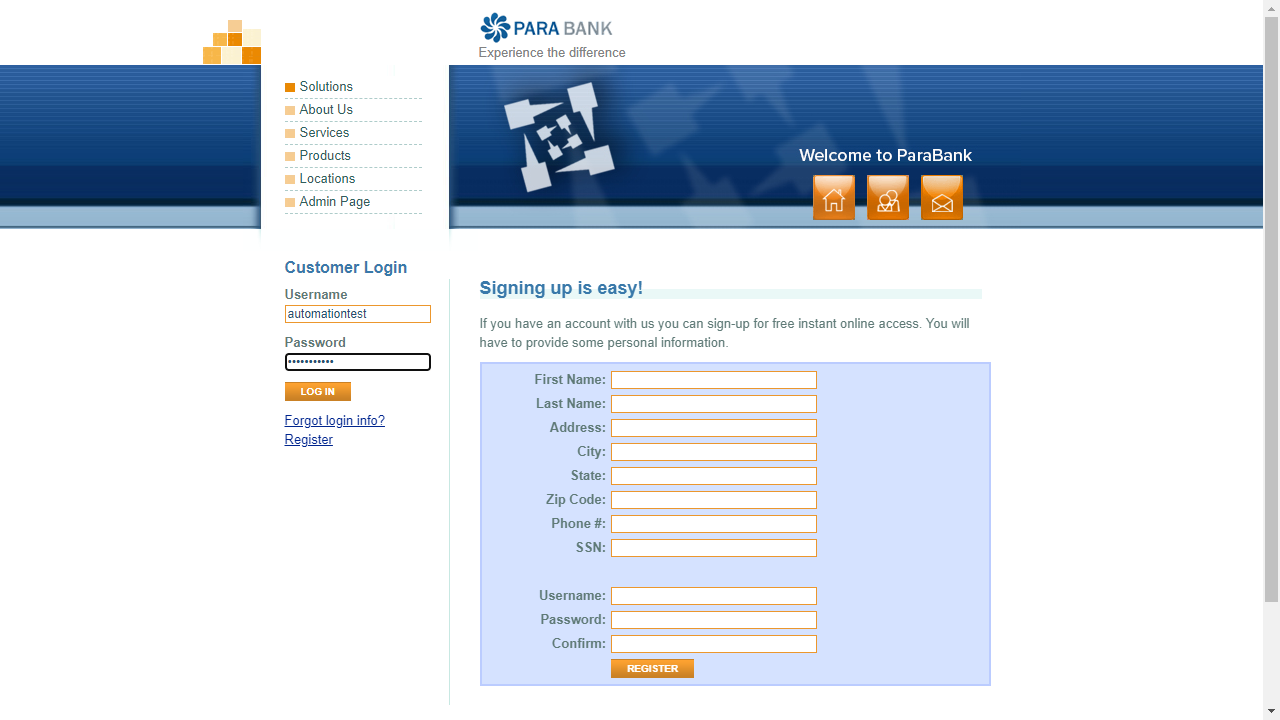
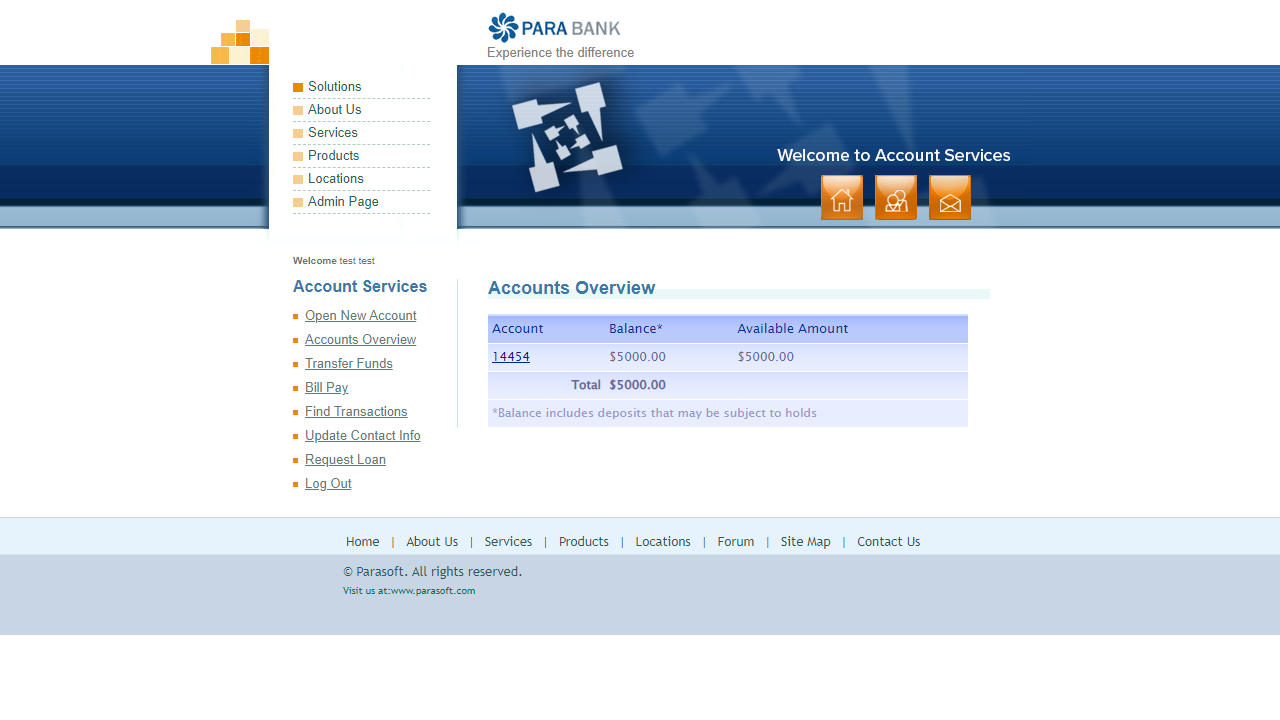
Added user login assertion.

diff --git a/src/test/pages/LandingPage.ts b/src/test/pages/LandingPage.ts
@@ -1,4 +1,4 @@
-import { Page } from "@playwright/test";
+import { Page, expect } from "@playwright/test";
 import { pageFixture } from "../hooks/pageFixture";
 
 export class LandingPage {
@@ -9,12 +9,20 @@ export class LandingPage {
 
     landingPageLocators = {
         usernameField:()=> pageFixture.page.locator("//form[contains(@name,'login')]//input[contains(@name,'username')]"),
-        passwordField:()=> pageFixture.page.locator("//form[contains(@name,'login')]//input[contains(@name,'password')]")
+        passwordField:()=> pageFixture.page.locator("//form[contains(@name,'login')]//input[contains(@name,'password')]"),
+        loginBtn:()=> pageFixture.page.locator("//input[contains(@value,'Log In')]"),
+        loginPara:()=> pageFixture.page.locator("//p[contains(@class,'smallText')]")
     }
 
     public async loginUser(username: string, password:string):Promise<void> {
         await this.landingPageLocators.usernameField().type(username);
         await this.landingPageLocators.passwordField().type(password);
+        await this.landingPageLocators.loginBtn().click();
+    }
+
+    public async isUserLoggedIn():Promise<void>{
+        const assertLogin = await this.landingPageLocators.loginPara();
+        expect(assertLogin).toContainText('Welcome')
     }
 
     

diff --git a/src/test/steps/loginStepDef.ts b/src/test/steps/loginStepDef.ts
@@ -14,5 +14,5 @@ When('User goes to the website and enters {string} and {string}', async function
 });
 
 Then('The user is logged in successfully.', async function () {
-    console.log('Test successful.')
+    await landingPage.isUserLoggedIn();
 })

diff --git a/src/test/hooks/hooks.ts b/src/test/hooks/hooks.ts
@@ -26,5 +26,5 @@ After(async function ({pickle, result}){
 });
 
 AfterAll(async function (){
-    await browser.close();
+    //await browser.close();
 });
